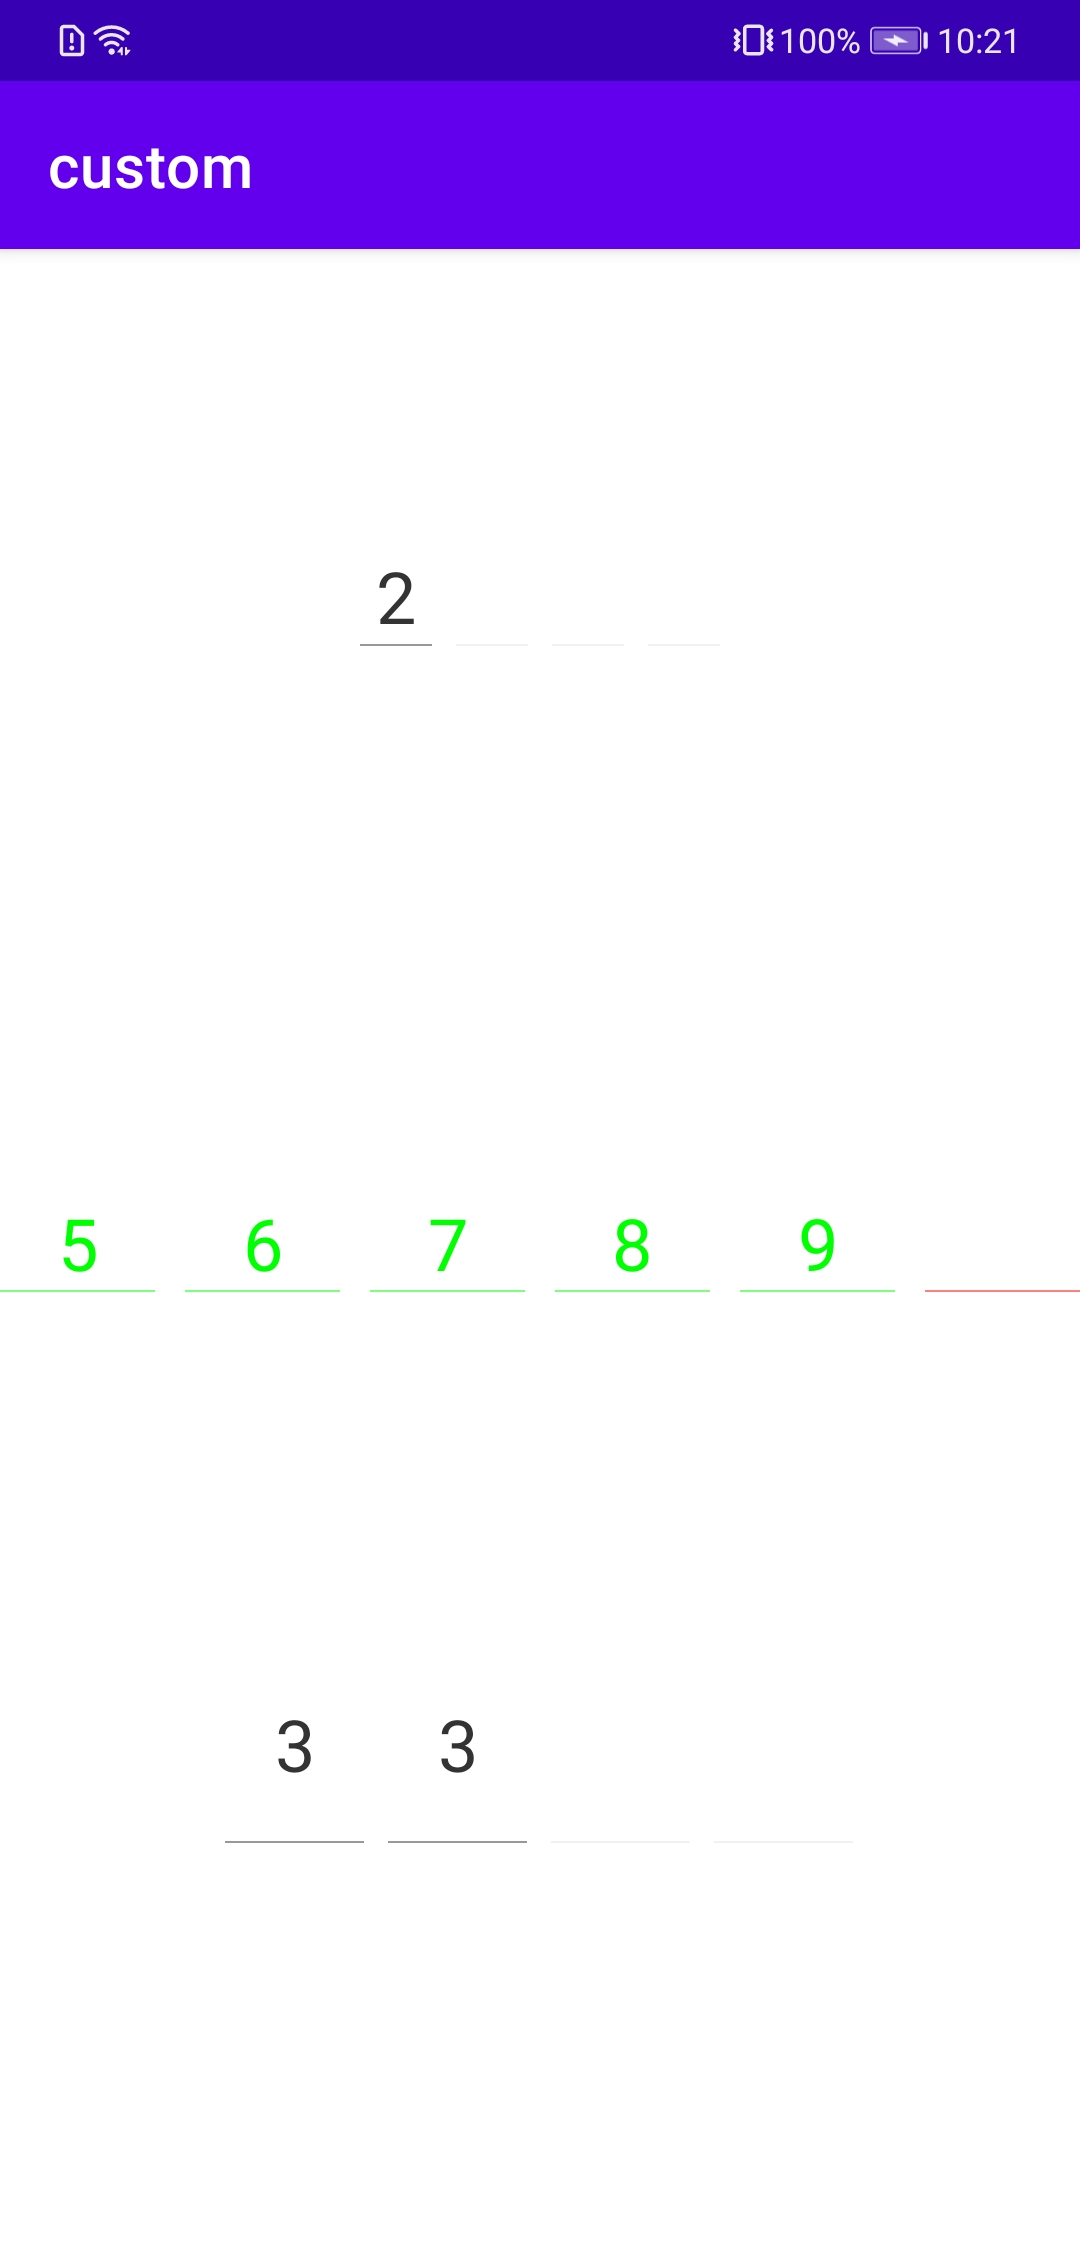
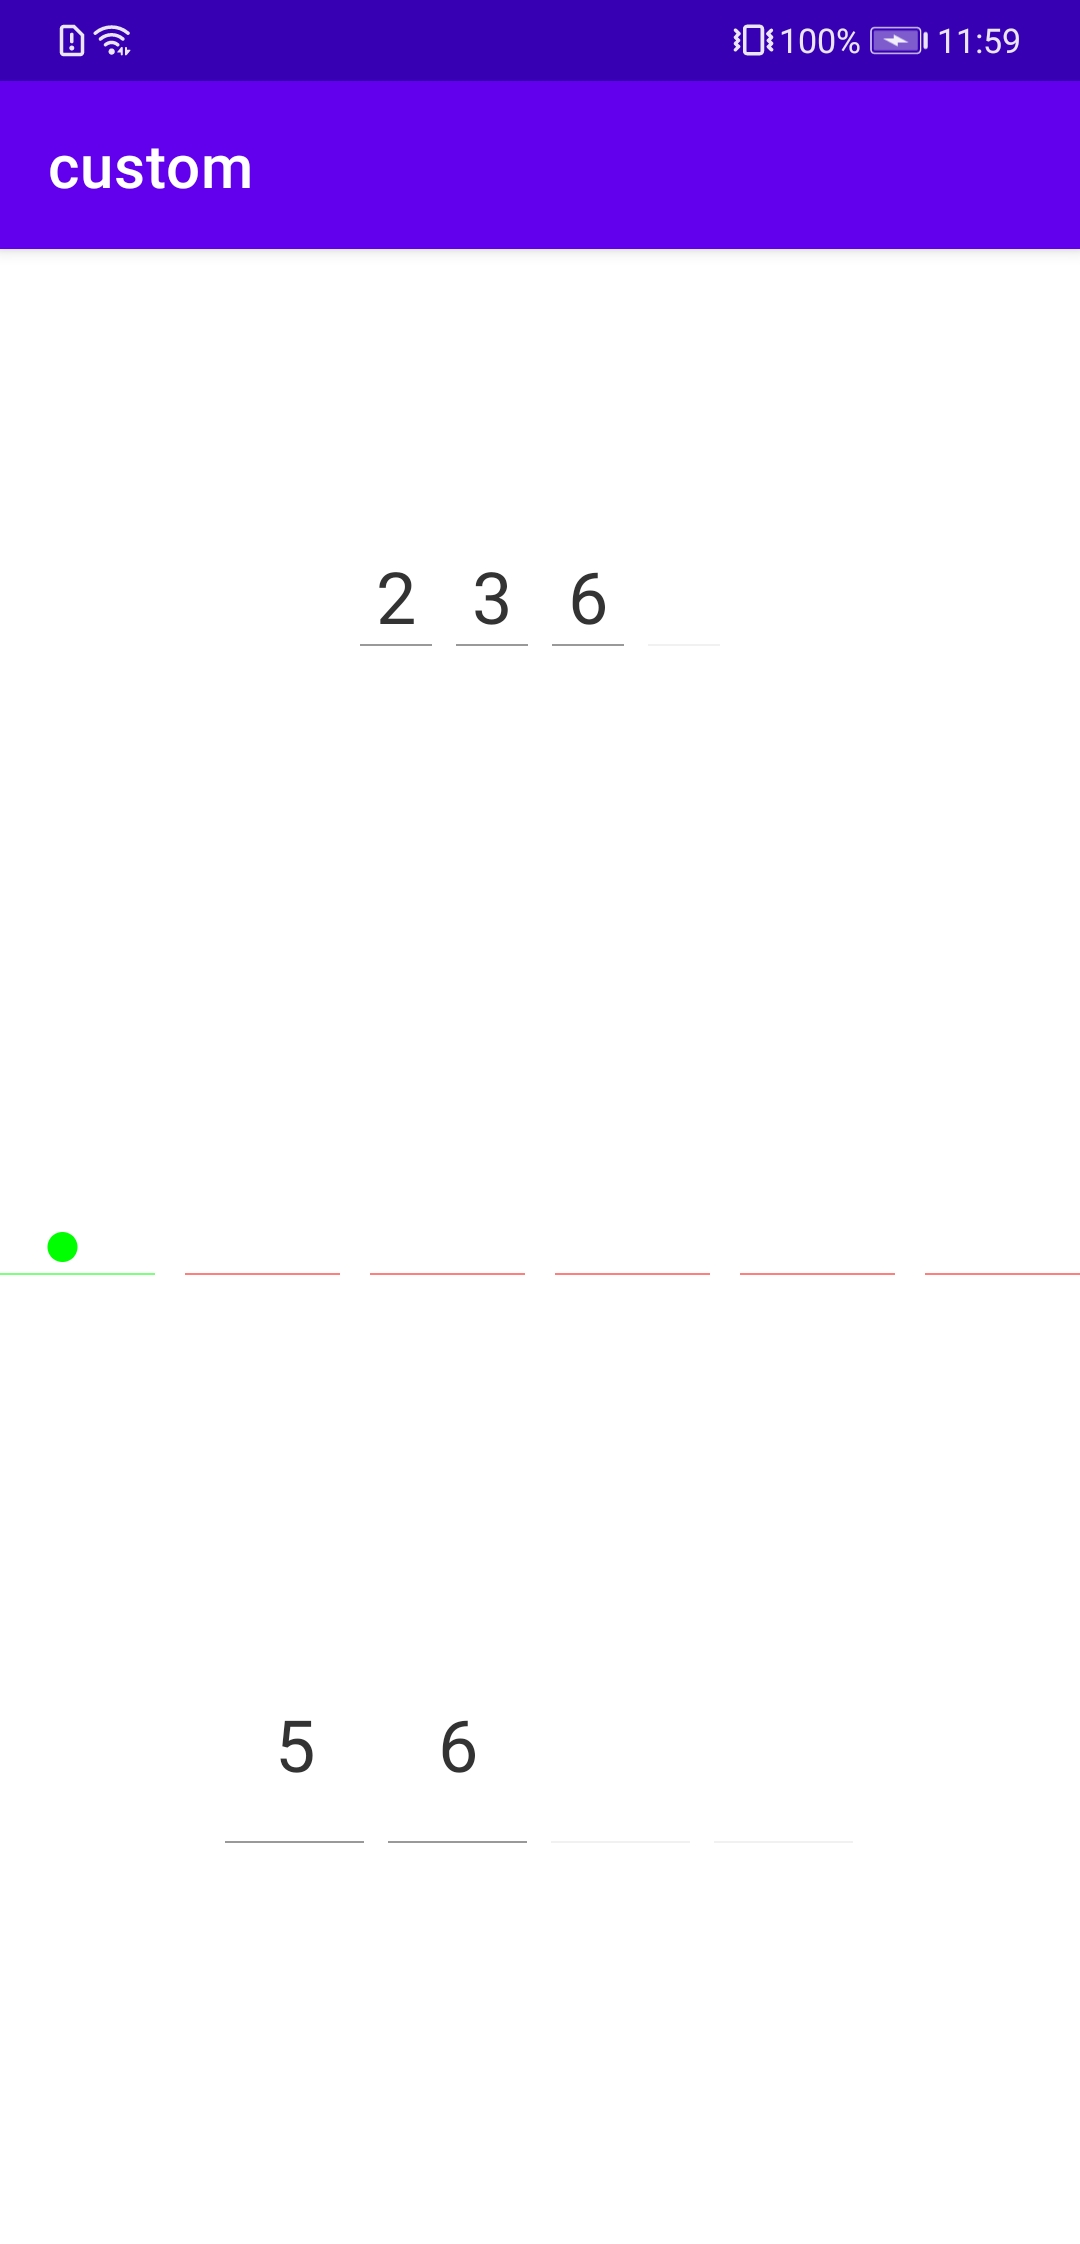
新增自定义属性verifySolidCircleSize，在不需要画文字的时候，可以用来指定实心圆大小

diff --git a/verifyview/src/main/java/com/jzx/android/verifyview/VerifyView.java b/verifyview/src/main/java/com/jzx/android/verifyview/VerifyView.java
@@ -22,6 +22,7 @@ import androidx.annotation.Nullable;
 
 public class VerifyView extends View {
     private int textSize;//default 24dp
+    private final int solidCircleSize;
 
     private int strokeWidth;
     private int strokeColorNotInput = 0xffe4e4e4;
@@ -58,6 +59,9 @@ public class VerifyView extends View {
         strokeGap = array.getDimensionPixelOffset(R.styleable.VerifyView_verifyStrokeGap,strokeGap);
         strokeHeight = array.getDimensionPixelOffset(R.styleable.VerifyView_verifyStrokeHeight,strokeHeight);
         verifyCodeLength = array.getInteger(R.styleable.VerifyView_verifyLength,verifyCodeLength);
+
+        solidCircleSize = array.getDimensionPixelOffset(R.styleable.VerifyView_verifySolidCircleSize,0);
+
         array.recycle();
 
         if (verifyCodeLength < 1){
@@ -89,7 +93,11 @@ public class VerifyView extends View {
         int heightMode = MeasureSpec.getMode(heightMeasureSpec);
         if (heightMode == MeasureSpec.AT_MOST || heightMode == MeasureSpec.UNSPECIFIED){
             Paint.FontMetrics fontMetrics = textPaint.getFontMetrics();
-            height = (int) (fontMetrics.bottom - fontMetrics.top) + strokeHeight;
+            if (solidCircleSize == 0){
+                height = (int) (fontMetrics.bottom - fontMetrics.top) + strokeHeight;
+            }else{
+                height = solidCircleSize * 2 + strokeHeight;
+            }
         }
 
         setMeasuredDimension(width,height);
@@ -117,6 +125,14 @@ public class VerifyView extends View {
             canvas.drawLine(start.x, start.y,end.x,end.y,strokePaint);
         }
 
+        if (solidCircleSize == 0){
+            drawText(canvas);
+        }else{
+            drawBitmap(canvas);
+        }
+    }
+
+    private void drawText(Canvas canvas){
         String text;
         //画文字
         for (int i = 0 ,length = inputs.length() ; i < length ; i++){
@@ -127,6 +143,17 @@ public class VerifyView extends View {
                     textPaint);
         }
     }
+
+    private void drawBitmap(Canvas canvas){
+        textPaint.setColor(strokeColorFilled);
+        for (int i = 0,length = inputs.length() ; i < length ; i++){
+            canvas.drawCircle((strokeWidth * i) + (strokeGap * i) + strokeWidth / 2.0f - solidCircleSize /2.0f,
+                    getMeasuredHeight() / 2.0f,
+                    solidCircleSize / 2.0f,
+                    textPaint);
+        }
+    }
+
 
     @Override
     public boolean onTouchEvent(MotionEvent event) {

diff --git a/README.md b/README.md
@@ -8,3 +8,22 @@
 
 ![](com.jzx.android.custom.verifyView.jpg)
 
+
+
+自定义属性：
+
+```xml
+<declare-styleable name="VerifyView">
+        <attr name="verifyLength" format="integer"/>
+        <attr name="verifyTextSize" format="dimension"/>
+        <attr name="verifyTextColor" format="color"/>
+        <attr name="verifySolidCircleSize" format="dimension"/>
+        <attr name="verifyStrokeGap" format="dimension"/>
+        <attr name="verifyStrokeHeight" format="dimension"/>
+        <attr name="verifyStrokeColorNotInput" format="color"/>
+        <attr name="verifyStrokeColorFilled" format="color"/>
+    </declare-styleable>
+```
+
+
+
